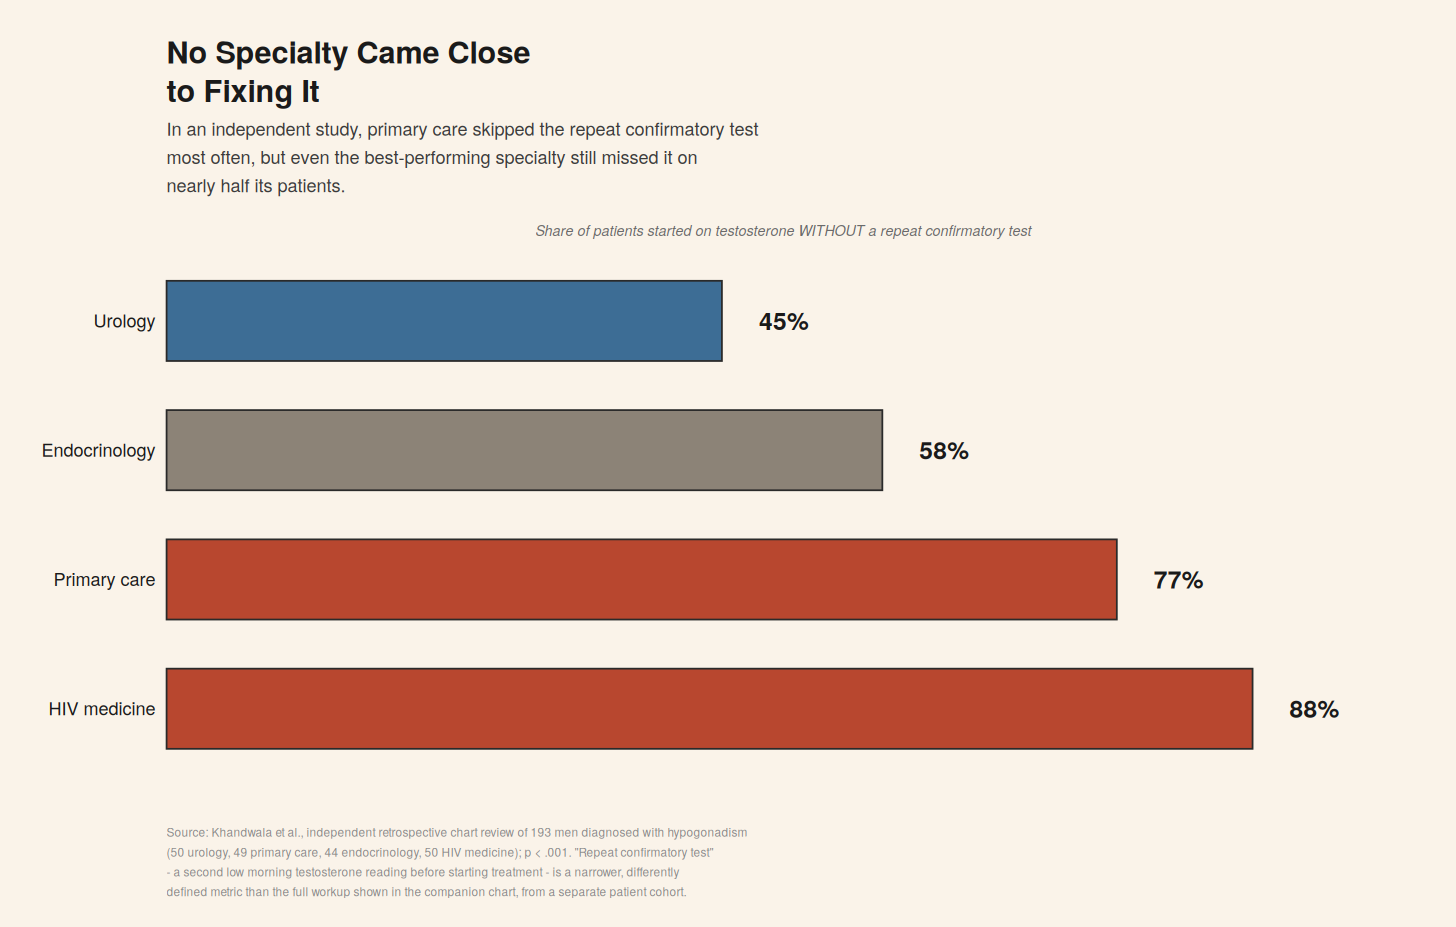
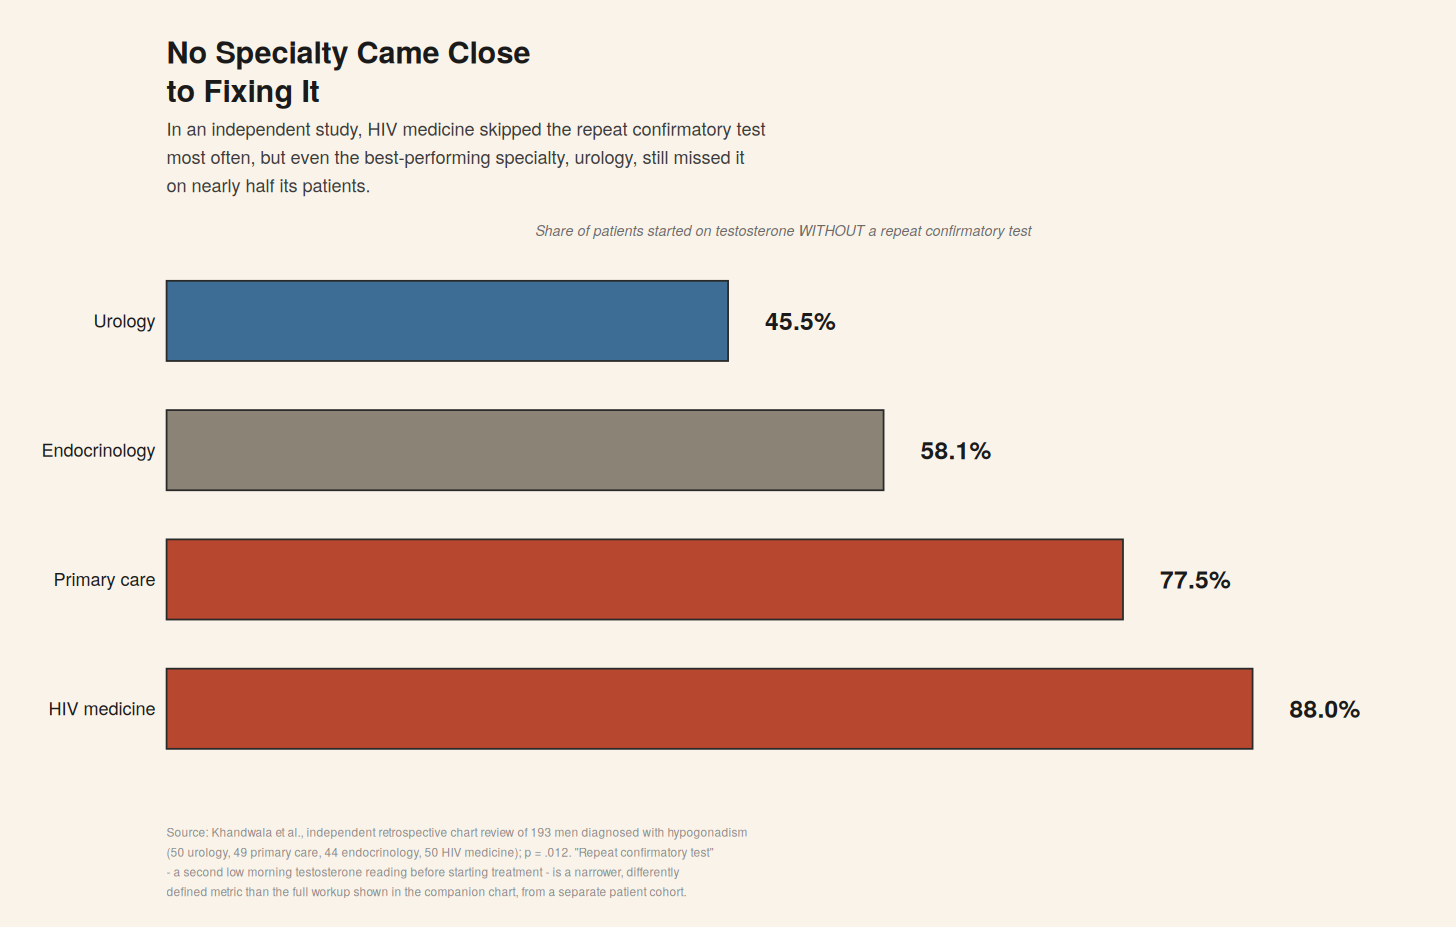
Fix chart 2: exact percentages, correct p-value (.012), correct subtitle
Claude-Session: https://claude.ai/code/session_01Ur6iWX2AEPVe6FpkX26P53

diff --git a/README.md b/README.md
@@ -12,7 +12,7 @@ Data and R code behind the charts in ["Measure of a Man"](https://notesfromtheab
 
 **`chart1_headline.png`** — Even at an academic medical center, 88% of men started on testosterone at University of Michigan Medicine (2020-2025) did not get the full guideline-concordant workup: two morning draws, LH and/or FSH, no contraindications. Source: Sinha et al., presented at ENDO 2026 (Endocrine Society annual meeting), retrospective chart review of 200 men.
 
-**`chart2_specialty.png`** — Breaks the failure down by specialty, looking at a narrower question: did anyone even order the second confirmatory draw. Urology missed it least often (45%) and HIV medicine most often (88%), with primary care at 77%. Source: Khandwala YS, Raheem OA, Ali MA, Hsieh TC. "Variation in Practice Pattern of Male Hypogonadism: A Comparative Analysis of Primary Care, Urology, Endocrinology, and HIV Specialists." *Am J Mens Health.* 2018. DOI: [10.1177/1557988317743152](https://doi.org/10.1177/1557988317743152).
+**`chart2_specialty.png`** — Breaks the failure down by specialty, looking at a narrower question: did anyone even order the second confirmatory draw. Urology skipped it least often (45.5%) and HIV medicine most often (88.0%), with endocrinology at 58.1% and primary care at 77.5% (p = .012 across specialties). Source: Khandwala YS, Raheem OA, Ali MA, Hsieh TC. "Variation in Practice Pattern of Male Hypogonadism: A Comparative Analysis of Primary Care, Urology, Endocrinology, and HIV Specialists." *Am J Mens Health.* 2018. DOI: [10.1177/1557988317743152](https://doi.org/10.1177/1557988317743152).
 
 Note: the two charts come from two independent studies with two different patient cohorts and two differently defined outcome measures (full guideline concordance vs. the narrower repeat-confirmatory-test question). They converge on the same underlying problem, but they aren't the same number measured twice.
 
